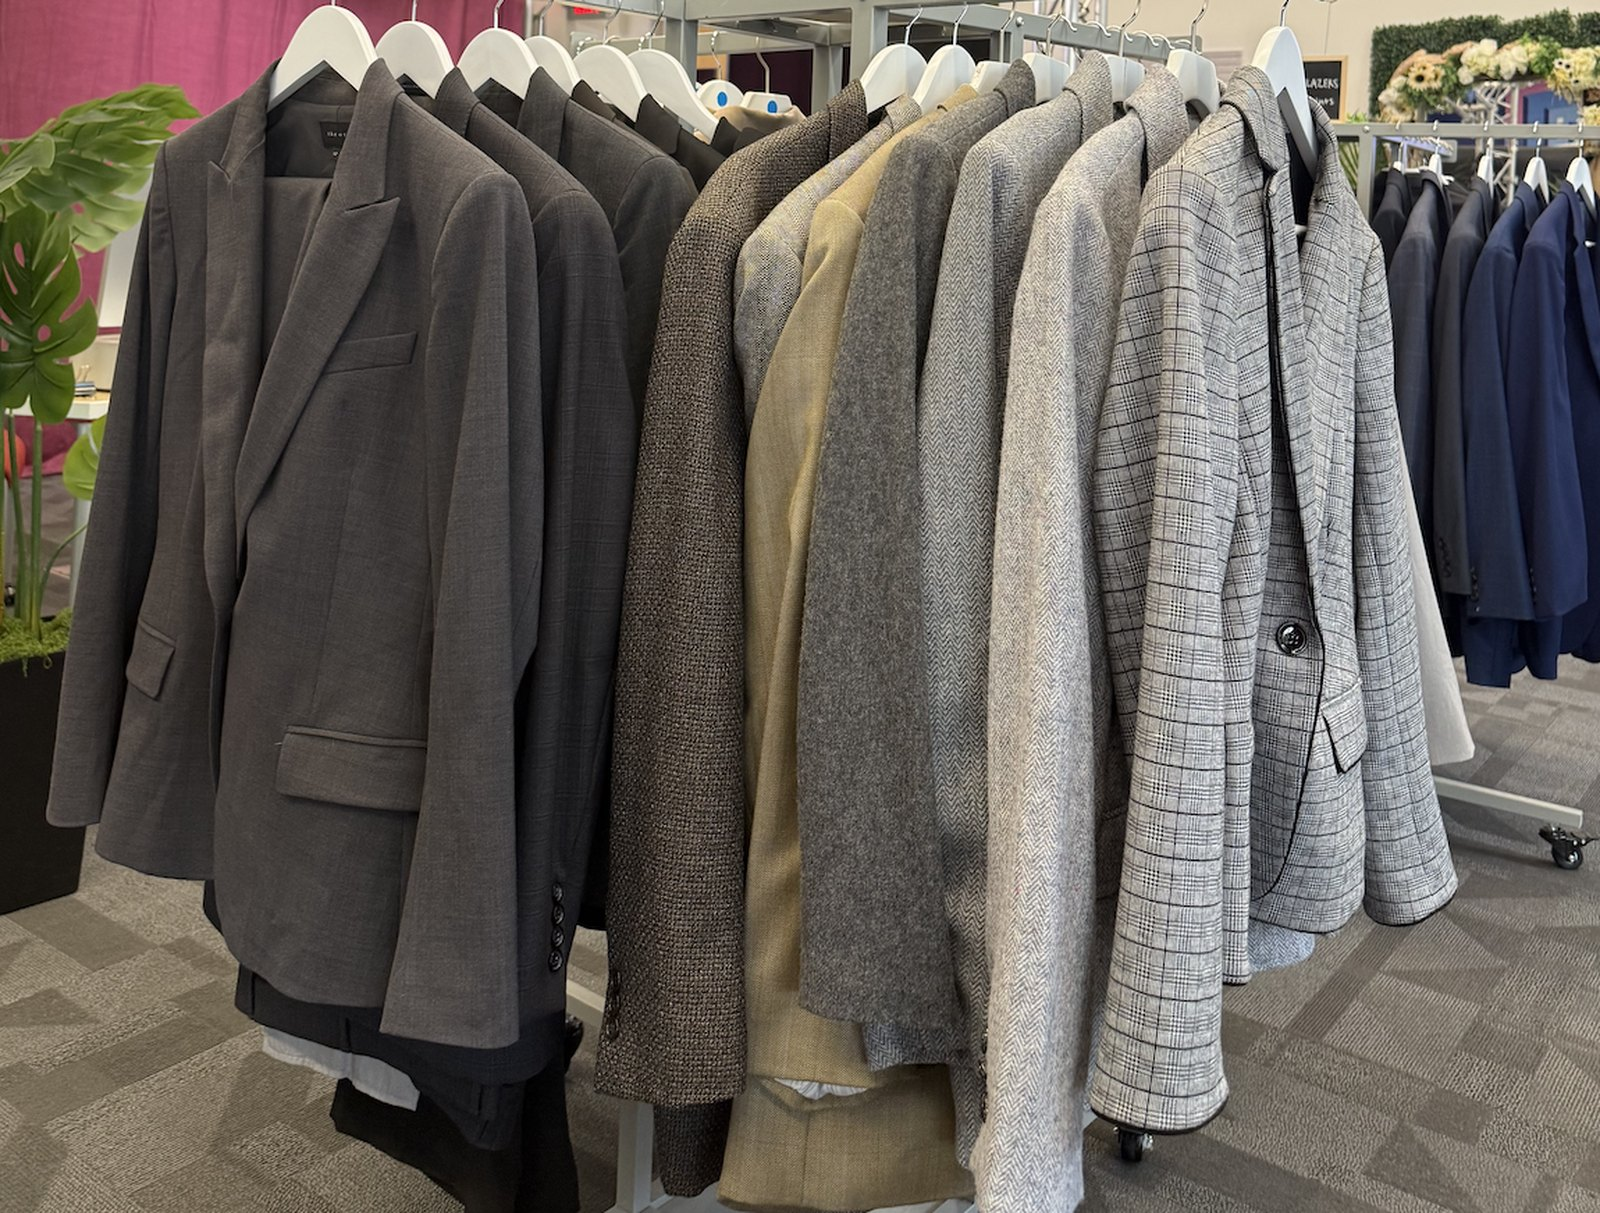
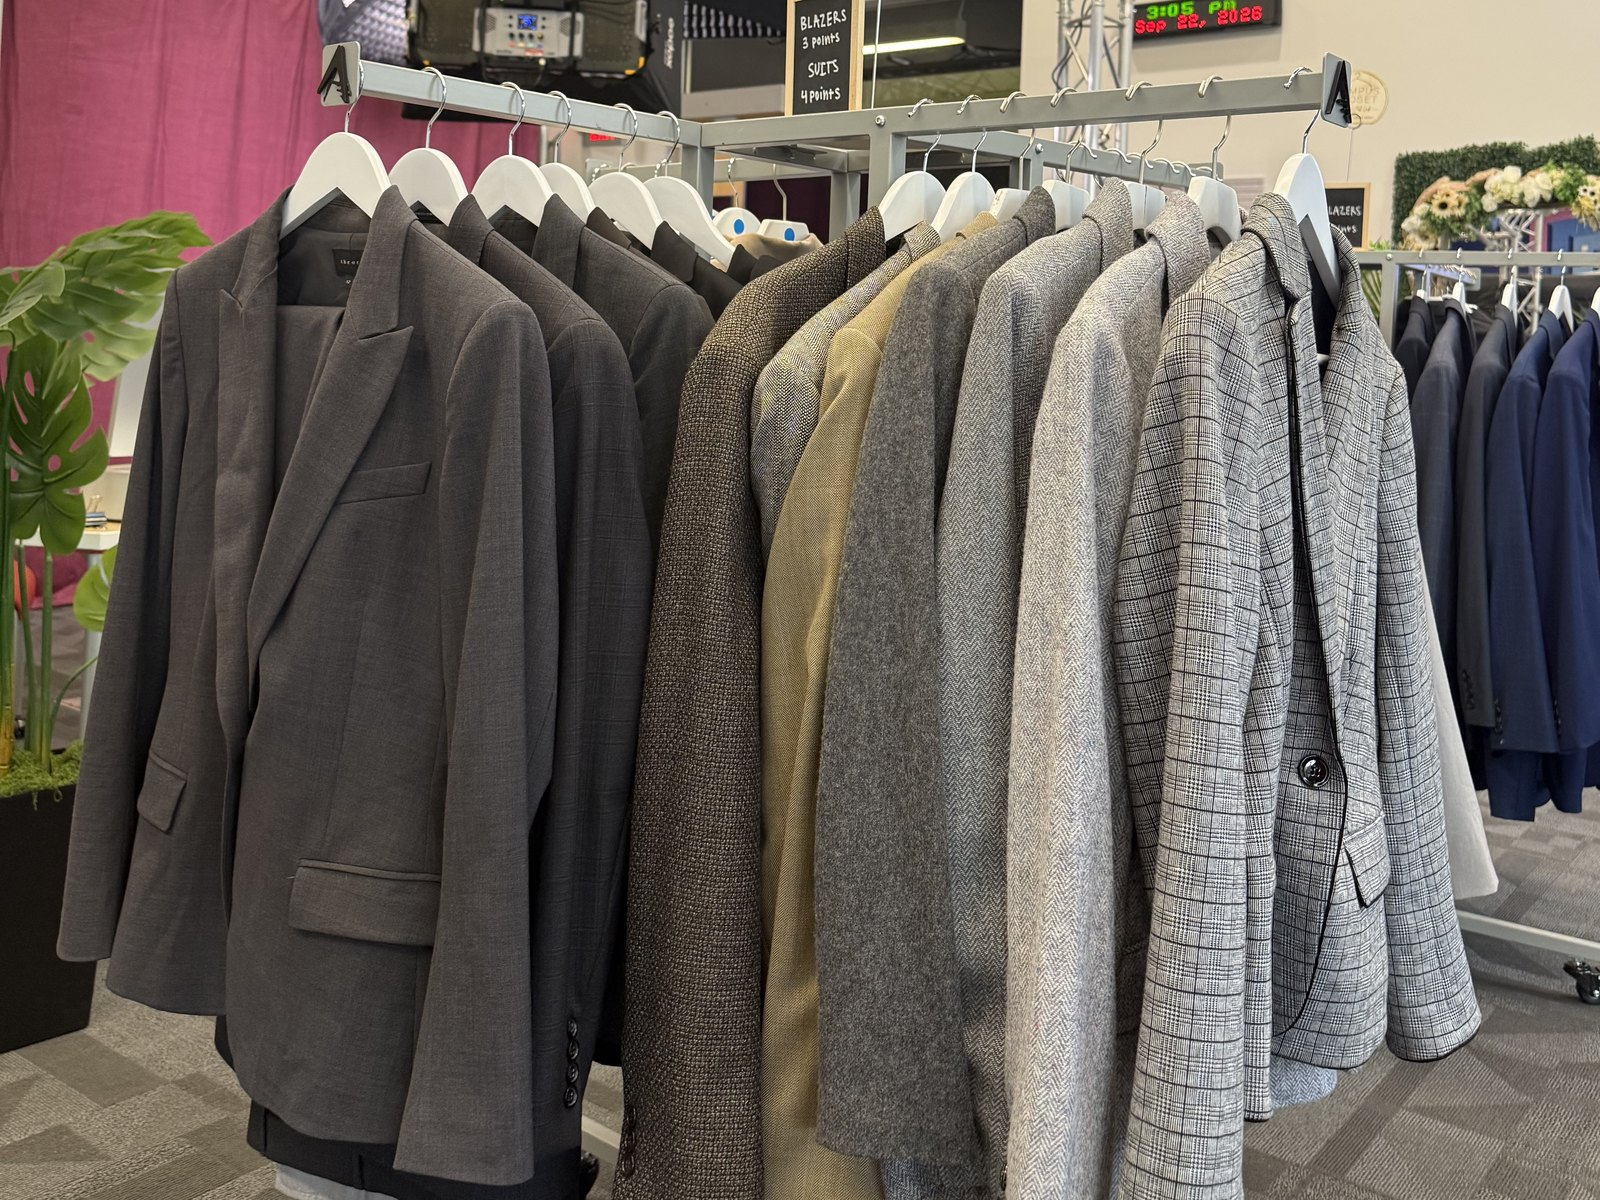
Align Closet before/after crops to same 4:3 rack frame

diff --git a/index.html b/index.html
@@ -235,7 +235,7 @@
             <figure class="ba-compare" data-ba-compare>
               <img
                 class="ba-compare-img ba-compare-img--after"
-                src="assets/closet/blazers-after.jpeg"
+                src="assets/closet/blazers-after.jpeg?v=align3"
                 alt="Blazer wall after visual merchandising reset"
                 loading="lazy"
                 width="1400"
@@ -245,7 +245,7 @@
               <div class="ba-compare-before" style="width: 50%">
                 <img
                   class="ba-compare-img ba-compare-img--before"
-                  src="assets/closet/blazers-before.jpeg"
+                  src="assets/closet/blazers-before.jpeg?v=align3"
                   alt="Blazer wall before visual merchandising reset"
                   loading="lazy"
                   width="1400"
